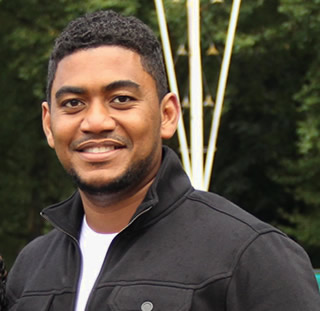
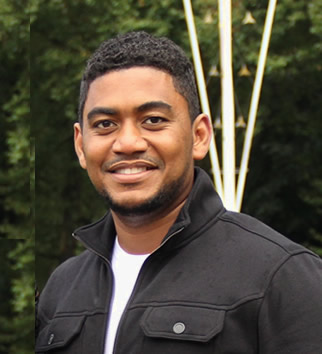
me

diff --git a/index.html b/index.html
@@ -113,7 +113,7 @@
     <section class="married clearfix" id="married">
         <div class="container">
                 <div class="im1 parallax"  data-bottom="left:20%" data-center="left:0" data-image="Photos/babe.jpg"><div class="im_arrows"></div></div>
-                <div class="im2 parallax" data-bottom="right:20%" data-center="right:0" data-image="Photos/me1.jpg"><div class="im_arrows"></div></div>
+                <div class="im2 parallax" data-bottom="right:20%" data-center="right:0" data-image="Photos/me.jpg"><div class="im_arrows"></div></div>
 
                 <div class="married_txt" data-bottom="opacity:0" data-center="opacity:1">
                     <h2><span>You're</span>   Invited</h2>
